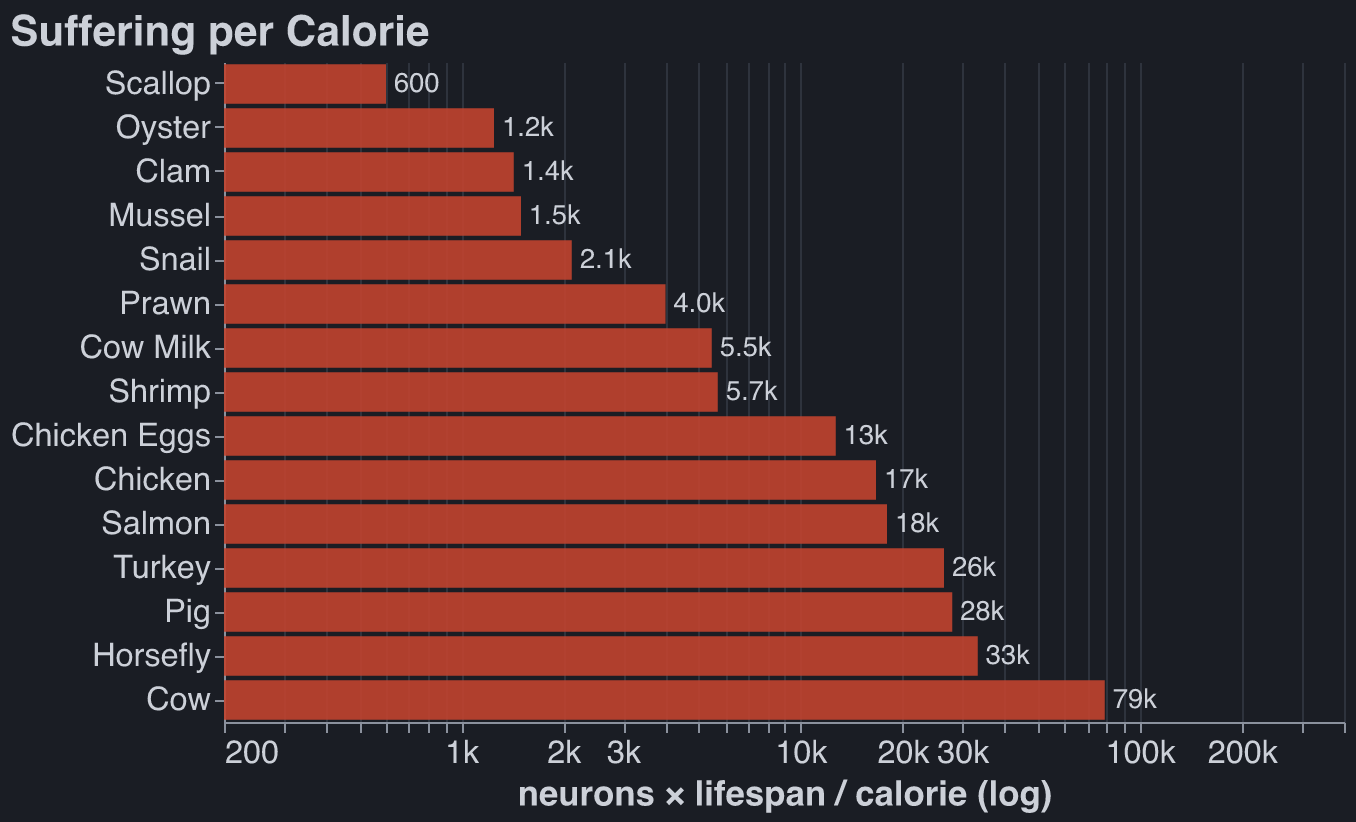
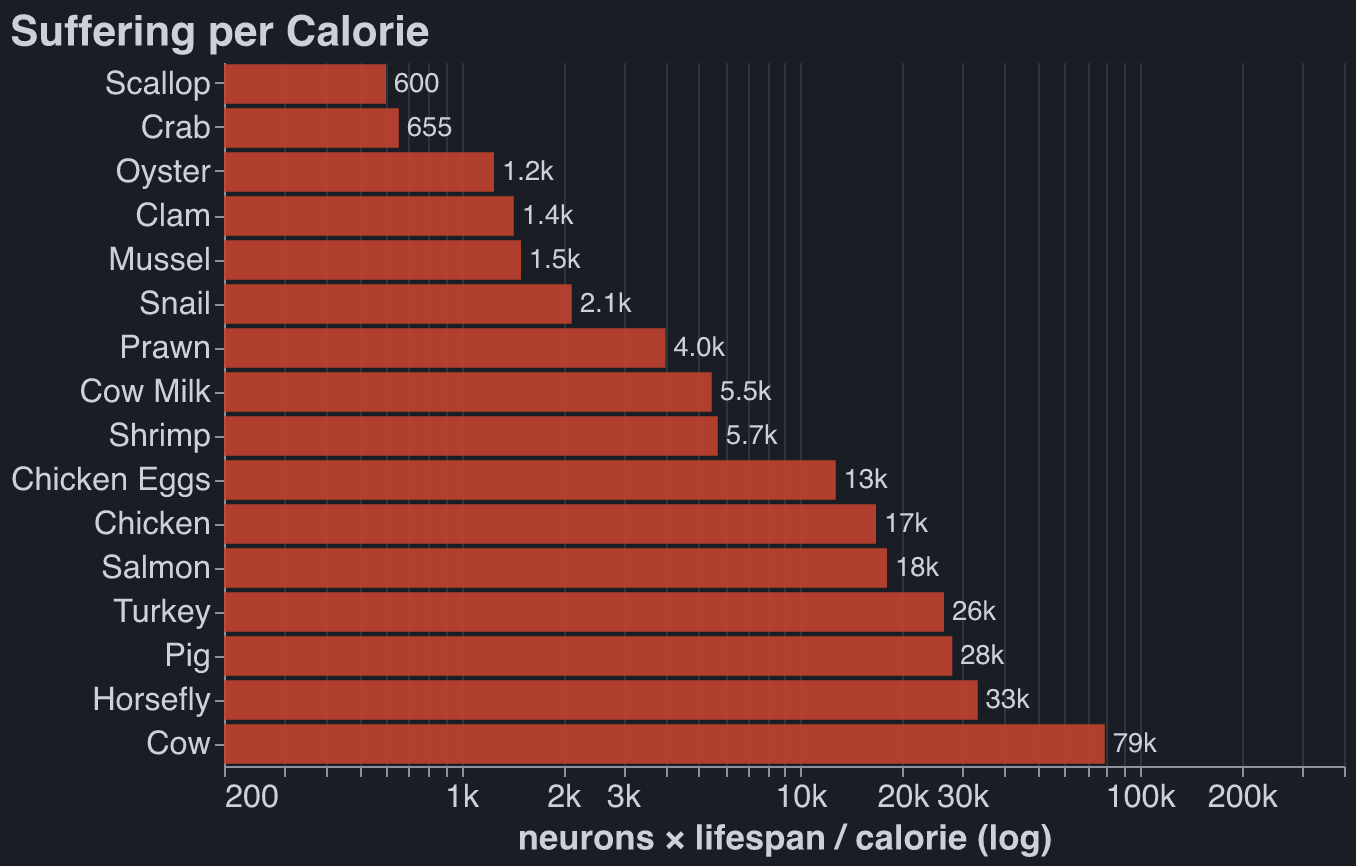
Refine RP moral weight critique in Bob's Diet; back-link to drafts index in dev

Changed region(s): [[0.0, 0.0, 0.9602, 1.0], [0.7434, 0.9428, 0.7743, 1.0]]

diff --git a/blog/bobs-diet/index.html b/blog/bobs-diet/index.html
@@ -26,11 +26,38 @@
           
           <p class="post-dates"><span>Published <time datetime="2025-12-08">December 8, 2025</time></span><span>Last edited <time datetime="2025-12-08">December 8, 2025</time></span></p>
         </header>
-        <p><em>Update 1/31/26: This
+        <p><em>Update 8/11/26:</em>
+<a href="https://rethinkpriorities.org/research-area/an-introduction-to-the-moral-weight-project/">Rethink Priorities</a>
+tried much harder than me to answer these questions several years before I wrote. They
+<a href="#src-rp-neurons" class="cite" id="citeref-rp-neurons">explicitly argue against using neurons as a proxy for moral weight</a>. But their
+arguments are sufficiently galaxy-brained that I prefer my simpler ones:</p>
+<ul>
+<li>
+<p>Their confidence intervals include the possibility that octopi have higher moral weight than
+humans, because octopi have a higher Critical Flicker-fusion Frequency.<sup class="footnote-ref"><a href="#fn1" id="fnref1">[1]</a></sup> But humans have ~1.5
+OOMs greater <a href="#src-cff-audio" class="cite" id="citeref-cff-audio">temporal resolution in hearing</a> (via pitch) than sight.<sup class="footnote-ref"><a href="#fn2" id="fnref2">[2]</a></sup></p>
+</li>
+<li>
+<p>They try to measure ~90 different proxies for sentience, and about half of (species, sentience
+measurement) pairs are unknown. How you deal with this is a nasty statistical problem. It sounds
+like they made a reasonable adjustment<sup class="footnote-ref"><a href="#fn3" id="fnref3">[3]</a></sup>, but I worry that by casting such a broad net
+they added more noise than signal.</p>
+</li>
+<li>
+<p>They only use binary measurements! That’s throwing away so much good data.</p>
+</li>
+</ul>
+<p>I worry that this criticism is ‘sour grapes’ towards a document much better-researched than my own.
+But my judgement is that their complex model introduces too much error surface area to pay for its
+advantage in detail and comprehensiveness.</p>
+<p>These days I eat everything. My subjective guilt for eating any given animal product is strongly
+positively correlated to the metrics you’ll learn about below; frequency of consumption is
+negatively correlated.</p>
+<p><em>Update 1/31/26:</em> This
 <a href="https://slatestarcodex.com/2019/12/11/acc-is-eating-meat-a-net-harm/">ACX post</a> does most of the
 data deep dive I have been postponing. They claim fish aren’t conscious. I don’t think consciousness
 is well-defined, but I have updated down on the moral weight of fish. Today I am pescatarian and
-trying to kick my egg habit.</em></p>
+trying to kick my egg habit.</p>
 <p>Epistemic Status: Every two years God bestows upon me dietary wisdom which I am compelled to share
 with the world. Unfortunately, God’s new revelations tend to contradict his previous ones, just like
 in the real Bible. You are reading the gospel of Bob 2025 edition, predicted half life 2 years.</p>
@@ -71,7 +98,7 @@ and never seeing the light of day. Maybe there’s a meaningful food label out t
 guarantees that the animal I’m eating lived a happy life, but I have not found it.</li>
 <li>I wasn’t prepared to quiz friends and restaurants who cooked for me on the origin of the meat I
 was eating. Not eating meat ever is a thing; you call yourself a vegetarian. Not eating meat that
-was produced in a factory farm isn’t a thing; people call you obnoxious.<sup class="footnote-ref"><a href="#fn1" id="fnref1">[1]</a></sup></li>
+was produced in a factory farm isn’t a thing; people call you obnoxious.<sup class="footnote-ref"><a href="#fn4" id="fnref4">[4]</a></sup></li>
 </ul>
 <p>No rational discourse was going to change my meat-eating habits at that point in time. I could not
 become part of the soy-eating blue tribe. Luckily, in 2021 while walking the Camino de Santiago, I
@@ -122,7 +149,7 @@ meantime I will use my flawed-but-plausible one.</p>
 <h2 id="the-rankings">The Rankings <a class="heading-anchor" href="#the-rankings" aria-label="Link to this section">#</a></h2>
 <p>I pulled the numbers here from Google / Claude / ChatGPT and did some light sanity checking. I hope
 they are all within one or two orders of magnitude of the true answer.
-(<a href="https://github.com/robbiethompson18/personal-website/blob/main/posts/bobs-diet/rankings.csv">Link</a>)<sup class="footnote-ref"><a href="#fn2" id="fnref2">[2]</a></sup></p>
+(<a href="https://github.com/robbiethompson18/personal-website/blob/main/posts/bobs-diet/rankings.csv">Link</a>)<sup class="footnote-ref"><a href="#fn5" id="fnref5">[5]</a></sup></p>
 <p><img src="charts/rankings-suffering.png" alt=""></p>
 <p>Lifespan reflects the amount of time we can expect the animal to spend on a factory farm, so animals
 which aren’t farmed don’t appear in this graph.</p>
@@ -161,7 +188,7 @@ environment.</li>
 </ol>
 <h3 id="dont-you-care-about-the-environment">Don’t You Care About The Environment? <a class="heading-anchor" href="#dont-you-care-about-the-environment" aria-label="Link to this section">#</a></h3>
 <p>Yes, I do, and I wrote about this a bit more
-<a href="https://robbiewmthompson.com/blog/plastic-straws">here</a><sup class="footnote-ref"><a href="#fn3" id="fnref3">[3]</a></sup></p>
+<a href="https://robbiewmthompson.com/blog/plastic-straws">here</a><sup class="footnote-ref"><a href="#fn6" id="fnref6">[6]</a></sup></p>
 <h3 id="farmed-shrimp-eat-fishmeal">Farmed Shrimp Eat Fishmeal <a class="heading-anchor" href="#farmed-shrimp-eat-fishmeal" aria-label="Link to this section">#</a></h3>
 <p>Correct. And fishmeal normally comes from anchovies, which are much smarter than shrimp. ChatGPT
 wants me to believe that 1 pound of shrimp production requires ~.2 pounds of fishmeal. These
@@ -180,7 +207,8 @@ determine what is, I will have to answer the open questions in the free range se
 be eating natant decapods, bivalves, dairy, and (guiltily) some eggs.</p>
 <p>UPDATE 4/10/2026: I eat everything and feel guilty about it :(.</p>
 <h1 id="v-b-roll">V. B-roll <a class="heading-anchor" href="#v-b-roll" aria-label="Link to this section">#</a></h1>
-<p>No one farms lobster or crab because they’re cannibals, so you can’t leave them in a shared pen.</p>
+<p><s>No one farms lobster or crab because they’re cannibals, so you can’t leave them in a shared pen.</s>
+Edit: totally a thing, they just keep the animals in cages.</p>
 <p>A dairy cow produces <a href="#src-cow-milk" class="cite" id="citeref-cow-milk"><em>35!</em> liters of milk per day</a>.</p>
 <p>A chicken can go <a href="#src-broiler" class="cite" id="citeref-broiler">from birth to six pounds and slaughtered in 5-7 weeks</a>. They are kept
 under constant light so that they keep eating, and cages are heated so that no calories are wasted
@@ -193,15 +221,25 @@ table below. Humans fall between anchovies and octopi.</p>
 <section class="footnotes">
 <h2 class="footnotes-title" id="notes">Notes <a class="heading-anchor" href="#notes" aria-label="Link to this section">#</a></h2>
 <ol class="footnotes-list">
-<li id="fn1" class="footnote-item"><p>I know it’s counterproductive, but to this day, people calling themselves flexitarians or
+<li id="fn1" class="footnote-item"><p>CFF: how close together flashes of light are temporally for you to start perceiving them one
+as one flash. <a href="#fnref1" class="footnote-backref">↩</a></p>
+</li>
+<li id="fn2" class="footnote-item"><p>My KISS approach would be to estimate clock speed (frequency at which neurons fire) and assume
+that the ‘number of sequential neuron firings it takes to produce a perceptually discrete
+event’ term cancels with the ‘richness/magnitude of said event’ term, because the latter is
+probably higher if it’s the result of more neurons firing. I have not thought about this hard. <a href="#fnref2" class="footnote-backref">↩</a></p>
+</li>
+<li id="fn3" class="footnote-item"><p>Their adjustment: a prior that no evidence for a trait implies that the trait is not present. <a href="#fnref3" class="footnote-backref">↩</a></p>
+</li>
+<li id="fn4" class="footnote-item"><p>I know it’s counterproductive, but to this day, people calling themselves flexitarians or
 claiming the title vegetarian when they do sometimes eat meat annoys me. I appreciate that you
-eat less meat, but making up a title for this fact comes across as self-aggrandizing. <a href="#fnref1" class="footnote-backref">↩</a></p>
+eat less meat, but making up a title for this fact comes across as self-aggrandizing. <a href="#fnref4" class="footnote-backref">↩</a></p>
 </li>
-<li id="fn2" class="footnote-item"><p>The internet cannot agree on how many calories or neurons there are in a tuna or salmon. I have
-low confidence in the numbers for vertebrate fish. <a href="#fnref2" class="footnote-backref">↩</a></p>
+<li id="fn5" class="footnote-item"><p>The internet cannot agree on how many calories or neurons there are in a tuna or salmon. I have
+low confidence in the numbers for vertebrate fish. <a href="#fnref5" class="footnote-backref">↩</a></p>
 </li>
-<li id="fn3" class="footnote-item"><p>I don’t know how to perform any calculation that converts kg of <span class="katex"><span class="katex-mathml"><math xmlns="http://www.w3.org/1998/Math/MathML"><semantics><mrow><msub><mtext>CO</mtext><mn>2</mn></msub></mrow><annotation encoding="application/x-tex">\text{CO}_2</annotation></semantics></math></span><span class="katex-html" aria-hidden="true"><span class="base"><span class="strut" style="height:0.8333em;vertical-align:-0.15em;"></span><span class="mord"><span class="mord text"><span class="mord">CO</span></span><span class="msupsub"><span class="vlist-t vlist-t2"><span class="vlist-r"><span class="vlist" style="height:0.3011em;"><span style="top:-2.55em;margin-right:0.05em;"><span class="pstrut" style="height:2.7em;"></span><span class="sizing reset-size6 size3 mtight"><span class="mord mtight">2</span></span></span></span><span class="vlist-s"></span></span><span class="vlist-r"><span class="vlist" style="height:0.15em;"><span></span></span></span></span></span></span></span></span></span> emitted to units
-of suffering experienced by sentient beings. If you can, please let me know! <a href="#fnref3" class="footnote-backref">↩</a></p>
+<li id="fn6" class="footnote-item"><p>I don’t know how to perform any calculation that converts kg of <span class="katex"><span class="katex-mathml"><math xmlns="http://www.w3.org/1998/Math/MathML"><semantics><mrow><msub><mtext>CO</mtext><mn>2</mn></msub></mrow><annotation encoding="application/x-tex">\text{CO}_2</annotation></semantics></math></span><span class="katex-html" aria-hidden="true"><span class="base"><span class="strut" style="height:0.8333em;vertical-align:-0.15em;"></span><span class="mord"><span class="mord text"><span class="mord">CO</span></span><span class="msupsub"><span class="vlist-t vlist-t2"><span class="vlist-r"><span class="vlist" style="height:0.3011em;"><span style="top:-2.55em;margin-right:0.05em;"><span class="pstrut" style="height:2.7em;"></span><span class="sizing reset-size6 size3 mtight"><span class="mord mtight">2</span></span></span></span><span class="vlist-s"></span></span><span class="vlist-r"><span class="vlist" style="height:0.15em;"><span></span></span></span></span></span></span></span></span></span> emitted to units
+of suffering experienced by sentient beings. If you can, please let me know! <a href="#fnref6" class="footnote-backref">↩</a></p>
 </li>
 </ol>
 </section>
@@ -210,6 +248,8 @@ of suffering experienced by sentient beings. If you can, please let me know! <a 
 <h2 class="sources-title" id="sources">Sources <a class="heading-anchor" href="#sources" aria-label="Link to this section">#</a></h2>
 <p class="sources-note">Claude found these sources. Robbie did not review them.</p>
 <ol class="sources-list">
+<li id="src-rp-neurons" class="source-item">Rethink Priorities, “Why Neuron Counts Shouldn’t Be Used as Proxies for Moral Weight” (2021). <a href="https://rethinkpriorities.org/research-area/why-neuron-counts-shouldnt-be-used-as-proxies-for-moral-weight/">https://rethinkpriorities.org/research-area/why-neuron-counts-shouldnt-be-used-as-proxies-for-moral-weight/</a> <a href="#citeref-rp-neurons" class="cite-backref" aria-label="Back to text">↩</a></li>
+<li id="src-cff-audio" class="source-item">Verschooten et al., “The upper frequency limit for the use of phase locking to code temporal fine structure in humans: A compilation of viewpoints,” <em>Hearing Research</em> 377 (2019): 109–121 — binaural phase-locking confirmed to ~1,500 Hz, contributors’ upper-limit estimates range 1,500–10,000 Hz, vs. visual CFF’s ~60–90 Hz. <a href="https://www.ncbi.nlm.nih.gov/pmc/articles/PMC6524635/">https://www.ncbi.nlm.nih.gov/pmc/articles/PMC6524635/</a> <a href="#citeref-cff-audio" class="cite-backref" aria-label="Back to text">↩</a></li>
 <li id="src-cow-milk" class="source-item">Holstein Association USA, <em>Do You Know This About Holstein Cattle?</em> — a US Holstein averages ~80 lb (~35 L) of milk a day. <a href="https://www.holsteinusa.com/pdf/fact_sheet_cattle.pdf">https://www.holsteinusa.com/pdf/fact_sheet_cattle.pdf</a> <a href="#citeref-cow-milk" class="cite-backref" aria-label="Back to text">↩</a></li>
 <li id="src-broiler" class="source-item">The Humane League, “What Are Broiler Chickens and How Long Do They Live?” — modern broilers reach ~6.5 lb at ~47 days (about 6-7 weeks). <a href="https://thehumaneleague.org/article/broiler-chickens">https://thehumaneleague.org/article/broiler-chickens</a> <a href="#citeref-broiler" class="cite-backref" aria-label="Back to text">↩</a></li>
 </ol>

diff --git a/build.js b/build.js
@@ -17,6 +17,10 @@ import katex from "@vscode/markdown-it-katex";
 import cite from "./cite.js";
 import { SITE, liveAssetUrl } from "./site.js";
 
+// Set by `npm run dev`/`watch` so post pages link back to the drafts index
+// locally, where you actually want to land on the thing you're editing.
+const DEV = !!process.env.DEV;
+
 const md = new MarkdownIt({ html: true, linkify: true, typographer: true })
   .use(footnote)
   .use(katex.default ?? katex)
@@ -175,10 +179,11 @@ function postPage(p) {
     : p.archive
       ? `<p class="draft-banner">Archived — not in the index or feed</p>\n          `
       : "";
+  const blogHref = DEV ? "/blog/drafts/" : "/blog/";
   const body = `    <main class="post">
       <article>
         <header class="post-header">
-          ${draftBanner}<p class="post-meta"><a href="/blog/">&larr; Blog</a></p>
+          ${draftBanner}<p class="post-meta"><a href="${blogHref}">&larr; Blog</a></p>
           <h1>${esc(p.meta.title)}</h1>
           ${p.meta.subtitle ? `<p class="subtitle">${esc(p.meta.subtitle)}</p>` : ""}
           <p class="post-dates"><span>Published <time datetime="${p.meta.date}">${fmtDate(p.meta.date)}</time></span><span>Last edited <time datetime="${p.updated}">${fmtDate(p.updated)}</time></span></p>
@@ -186,7 +191,7 @@ function postPage(p) {
         ${p.html}
       </article>
       <footer class="post-footer">
-        <p><a href="/blog/">&larr; More writing</a></p>
+        <p><a href="${blogHref}">&larr; More writing</a></p>
       </footer>
     </main>`;
   return layout({

diff --git a/blog/bobs-diet/charts/rankings.py b/blog/bobs-diet/charts/rankings.py
@@ -59,15 +59,20 @@ def hbar(rows, unit, title, name, hue, domain):
 
 # 1. Suffering = neurons x lifespan / calories. Farmed animals only (animals
 #    with NA lifespan compute to #VALUE! in the sheet and are excluded, per the
-#    post). Human is not farmed, so it's excluded too.
+#    post). Human is not farmed, so it's excluded too. Lobster stays excluded:
+#    commercial "lobster farms" are mostly wild-caught fattening/holding
+#    pounds, not egg-to-market aquaculture, same bucket as Tuna below.
 #    Salmon overrides the sheet: 5000 cal (post's 5/17 update, not 2400) and
 #    4e7 neurons (geometric midpoint of the ~1e7–1.3e8 estimate range, not the
 #    sheet's high-end 1.3e8). 4e7 x 2.25 / 5000 = 18,000 (was 122k).
+#    Crab added post-8/11 edit: mud crab (Scylla serrata) grow-out farming is
+#    real, ~5.5mo stocking-to-harvest. 1430 neurons/cal x (5.5/12) yr = 655.
 hbar([
-    ("Scallop", 600), ("Oyster", 1250), ("Clam", 1430), ("Mussel", 1500),
-    ("Snail", 2120), ("Prawn", 4000), ("Cow Milk", 5480), ("Shrimp", 5710),
-    ("Chicken Eggs", 12700), ("Chicken", 16700), ("Salmon", 18000),
-    ("Turkey", 26500), ("Pig", 28000), ("Horsefly", 33300), ("Cow", 78900),
+    ("Scallop", 600), ("Crab", 655), ("Oyster", 1250), ("Clam", 1430),
+    ("Mussel", 1500), ("Snail", 2120), ("Prawn", 4000), ("Cow Milk", 5480),
+    ("Shrimp", 5710), ("Chicken Eggs", 12700), ("Chicken", 16700),
+    ("Salmon", 18000), ("Turkey", 26500), ("Pig", 28000), ("Horsefly", 33300),
+    ("Cow", 78900),
 ], "neurons × lifespan / calorie  (log)", "Suffering per Calorie",
    "rankings-suffering", "carbon", domain=[200, 400000])
 

diff --git a/posts/bobs-diet/charts/rankings.py b/posts/bobs-diet/charts/rankings.py
@@ -59,15 +59,20 @@ def hbar(rows, unit, title, name, hue, domain):
 
 # 1. Suffering = neurons x lifespan / calories. Farmed animals only (animals
 #    with NA lifespan compute to #VALUE! in the sheet and are excluded, per the
-#    post). Human is not farmed, so it's excluded too.
+#    post). Human is not farmed, so it's excluded too. Lobster stays excluded:
+#    commercial "lobster farms" are mostly wild-caught fattening/holding
+#    pounds, not egg-to-market aquaculture, same bucket as Tuna below.
 #    Salmon overrides the sheet: 5000 cal (post's 5/17 update, not 2400) and
 #    4e7 neurons (geometric midpoint of the ~1e7–1.3e8 estimate range, not the
 #    sheet's high-end 1.3e8). 4e7 x 2.25 / 5000 = 18,000 (was 122k).
+#    Crab added post-8/11 edit: mud crab (Scylla serrata) grow-out farming is
+#    real, ~5.5mo stocking-to-harvest. 1430 neurons/cal x (5.5/12) yr = 655.
 hbar([
-    ("Scallop", 600), ("Oyster", 1250), ("Clam", 1430), ("Mussel", 1500),
-    ("Snail", 2120), ("Prawn", 4000), ("Cow Milk", 5480), ("Shrimp", 5710),
-    ("Chicken Eggs", 12700), ("Chicken", 16700), ("Salmon", 18000),
-    ("Turkey", 26500), ("Pig", 28000), ("Horsefly", 33300), ("Cow", 78900),
+    ("Scallop", 600), ("Crab", 655), ("Oyster", 1250), ("Clam", 1430),
+    ("Mussel", 1500), ("Snail", 2120), ("Prawn", 4000), ("Cow Milk", 5480),
+    ("Shrimp", 5710), ("Chicken Eggs", 12700), ("Chicken", 16700),
+    ("Salmon", 18000), ("Turkey", 26500), ("Pig", 28000), ("Horsefly", 33300),
+    ("Cow", 78900),
 ], "neurons × lifespan / calorie  (log)", "Suffering per Calorie",
    "rankings-suffering", "carbon", domain=[200, 400000])
 

diff --git a/posts/bobs-diet/FINAL_POST.md b/posts/bobs-diet/FINAL_POST.md
@@ -4,11 +4,49 @@ date: 2025-12-08
 draft: false
 ---
 
-_Update 1/31/26: This
+_Update 8/11/26:_
+[Rethink Priorities](https://rethinkpriorities.org/research-area/an-introduction-to-the-moral-weight-project/)
+tried much harder than me to answer these questions several years before I wrote. They
+[explicitly argue against using neurons as a proxy for moral weight](@rp-neurons). But their
+arguments are sufficiently galaxy-brained that I prefer my simpler ones:
+
+- Their confidence intervals include the possibility that octopi have higher moral weight than
+  humans, because octopi have a higher Critical Flicker-fusion Frequency.[^CFF] But humans have ~1.5
+  OOMs greater [temporal resolution in hearing](@cff-audio) (via pitch) than sight.[^KISS]
+
+  [^KISS]:
+      My KISS approach would be to estimate clock speed (frequency at which neurons fire) and assume
+      that the 'number of sequential neuron firings it takes to produce a perceptually discrete
+      event' term cancels with the 'richness/magnitude of said event' term, because the latter is
+      probably higher if it's the result of more neurons firing. I have not thought about this hard.
+
+  [^CFF]:
+      CFF: how close together flashes of light are temporally for you to start perceiving them one
+      as one flash.
+
+- They try to measure ~90 different proxies for sentience, and about half of (species, sentience
+  measurement) pairs are unknown. How you deal with this is a nasty statistical problem. It sounds
+  like they made a reasonable adjustment[^adjustment], but I worry that by casting such a broad net
+  they added more noise than signal.
+
+  [^adjustment]:
+      Their adjustment: a prior that no evidence for a trait implies that the trait is not present.
+
+- They only use binary measurements! That's throwing away so much good data.
+
+I worry that this criticism is 'sour grapes' towards a document much better-researched than my own.
+But my judgement is that their complex model introduces too much error surface area to pay for its
+advantage in detail and comprehensiveness.
+
+These days I eat everything. My subjective guilt for eating any given animal product is strongly
+positively correlated to the metrics you'll learn about below; frequency of consumption is
+negatively correlated.
+
+_Update 1/31/26:_ This
 [ACX post](https://slatestarcodex.com/2019/12/11/acc-is-eating-meat-a-net-harm/) does most of the
 data deep dive I have been postponing. They claim fish aren't conscious. I don't think consciousness
 is well-defined, but I have updated down on the moral weight of fish. Today I am pescatarian and
-trying to kick my egg habit._
+trying to kick my egg habit.
 
 Epistemic Status: Every two years God bestows upon me dietary wisdom which I am compelled to share
 with the world. Unfortunately, God's new revelations tend to contradict his previous ones, just like
@@ -213,7 +251,8 @@ UPDATE 4/10/2026: I eat everything and feel guilty about it :(.
 
 # V. B-roll
 
-No one farms lobster or crab because they're cannibals, so you can't leave them in a shared pen.
+~~No one farms lobster or crab because they're cannibals, so you can't leave them in a shared pen.~~
+Edit: totally a thing, they just keep the animals in cages.
 
 A dairy cow produces [_35!_ liters of milk per day](@cow-milk).
 
@@ -233,3 +272,12 @@ averages ~80 lb (~35 L) of milk a day. <https://www.holsteinusa.com/pdf/fact_she
 {@broiler}: The Humane League, "What Are Broiler Chickens and How Long Do They Live?" — modern
 broilers reach ~6.5 lb at ~47 days (about 6-7 weeks).
 <https://thehumaneleague.org/article/broiler-chickens>
+
+{@cff-audio}: Verschooten et al., "The upper frequency limit for the use of phase locking to code
+temporal fine structure in humans: A compilation of viewpoints," _Hearing Research_ 377 (2019):
+109–121 — binaural phase-locking confirmed to ~1,500 Hz, contributors' upper-limit estimates range
+1,500–10,000 Hz, vs. visual CFF's ~60–90 Hz. <https://www.ncbi.nlm.nih.gov/pmc/articles/PMC6524635/>
+
+{@rp-neurons}: Rethink Priorities, "Why Neuron Counts Shouldn't Be Used as Proxies for Moral Weight"
+(2021).
+<https://rethinkpriorities.org/research-area/why-neuron-counts-shouldnt-be-used-as-proxies-for-moral-weight/>

diff --git a/CODE_SMELL.md b/CODE_SMELL.md
@@ -21,3 +21,11 @@ ship-only-my-code conflicts get painful.
 Jul 27, 2026: lint.sh claims to format HTML but its `*.html` glob only reaches root-level files, so
 nested standalone pages such as tutoring/index.html are skipped. Expand the Prettier inputs if more
 nested HTML pages are added.
+
+Aug 11, 2026: build.js's footnote-definition checker (`/^\[\^([^\]]+)\]:/gm`) requires the `[^id]:`
+line to start at column 0, so a footnote defined under an indented list item (e.g.
+`posts/bobs-diet/FINAL_POST.md`'s `[^CFF]`, nested two spaces under a bullet) gets flagged as
+"referenced but never defined" even though markdown-it-footnote renders it correctly. False
+positive, not a real bug — the regex just doesn't account for list-item indentation. Fix by
+stripping leading whitespace before matching, or documenting that footnote defs should stay
+flush-left.
